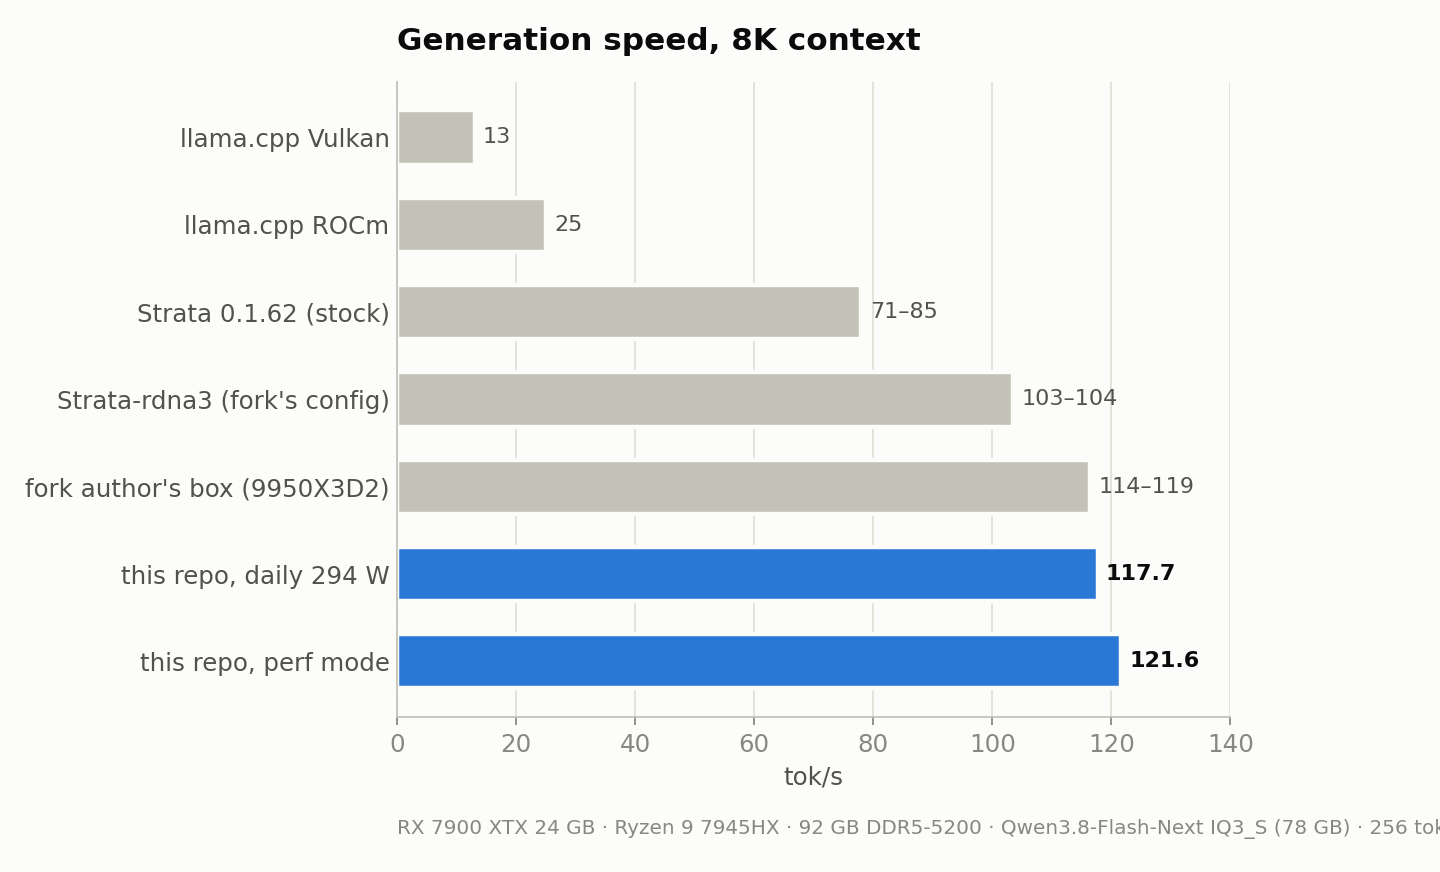
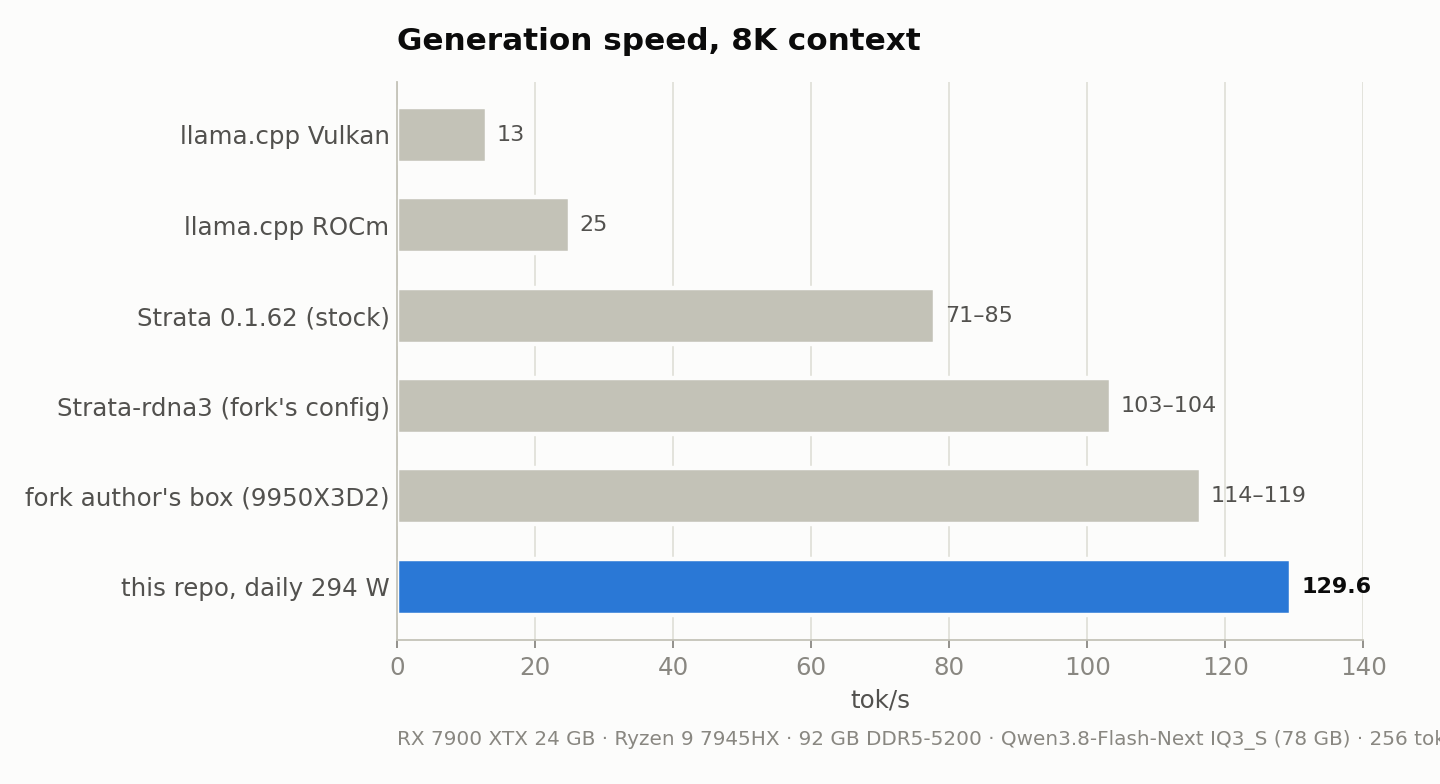
Bench 129.6/122.7 with the MTP head work (was 117.7/117.4); --spec 5 dropped (sweeps 45-46); charts updated

diff --git a/tools/plots.py b/tools/plots.py
@@ -50,10 +50,9 @@ def generation():
         ("Strata 0.1.62 (stock)", 78, False, "71–85"),
         ("Strata-rdna3 (fork's config)", 103.5, False, "103–104"),
         ("fork author's box (9950X3D2)", 116.5, False, "114–119"),
-        ("this repo, daily 294 W", 117.7, True, "117.7"),
-        ("this repo, perf mode", 121.6, True, "121.6"),
+        ("this repo, daily 294 W", 129.6, True, "129.6"),
     ], 140, "RX 7900 XTX 24 GB · Ryzen 9 7945HX · 92 GB DDR5-5200 · Qwen3.8-Flash-Next IQ3_S (78 GB) · "
-             "256 tokens, median of 5, greedy")
+             "256 tokens, greedy")
 
 
 def ladder():
@@ -61,8 +60,8 @@ def ladder():
         ("fork's shipped config", 103.5, False, "103.5"),
         ("+ tuning, FAST=1 (skip low-ranked missed experts)", 110, False, "110"),
         ("+ kernel patches (VRAM 1300)", 113.5, False, "113.5"),
-        ("+ VRAM 1400 (daily default)", 117.7, True, "117.7"),
-        ("+ core 3000 (perf mode, opt-in)", 121.6, True, "121.6"),
+        ("+ VRAM 1400", 117.7, False, "117.7"),
+        ("+ MTP draft-head work (q4_0, per-stream norm, retrained)", 129.6, True, "129.6"),
     ], 140, "Same box and model; each row includes the rows above it")
 
 

diff --git a/README.md b/README.md
@@ -1,6 +1,6 @@
 # rdna3-moe-tuning
 
-Run **Qwen3.8-Flash-Next (IQ3_S, 82 GB MoE)** on a **single RX 7900 XTX (24 GB)** at **~117 tok/s**,
+Run **Qwen3.8-Flash-Next (IQ3_S, 82 GB MoE)** on a **single RX 7900 XTX (24 GB)** at **~130 tok/s**,
 within a 294 W power cap. One script installs, tunes, serves and benchmarks
 [Strata-rdna3](https://github.com/nicejunjie/Strata-rdna3), a gfx1100-tuned fork of the Strata engine.
 
@@ -11,7 +11,7 @@ the rest on the CPU in parallel, and drafts 4 tokens ahead with an MTP head.
 
 | | daily (`serve`) | perf mode (`perf`, opt-in) |
 |---|---:|---:|
-| generation, 8K / 32K context | 117.7 / 117.4 tok/s | 121.6 / 122.5 tok/s |
+| generation, 8K / 32K context | 129.6 / 122.7 tok/s | 121.6 / 122.5 tok/s (measured before the MTP work; not re-run) |
 | clocks | core 2300, VRAM 1400 | core 3000, VRAM 1400 |
 | power | 294 W cap, ~230 W used | 294 W cap, ~287 W used (coil whine) |
 
@@ -56,7 +56,8 @@ Single user, distinct prompts, 256 generated tokens, median of 5 runs, greedy.
 
 | | prompt 8K | prompt 32K | generation 8K / 32K |
 |---|---:|---:|---:|
-| **this repo, `FAST=1` + kernel patches, VRAM 1400 (default)** | **2,903** | **3,605** | **117.7 / 117.4** |
+| **this repo, + MTP draft-head work (q4_0, per-stream norm, retrained; default)** | **2,870** | **3,593** | **129.6 / 122.7** |
+| this repo, `FAST=1` + kernel patches, VRAM 1400 | 2,903 | 3,605 | 117.7 / 117.4 |
 | this repo, `FAST=1` + kernel patches, VRAM 1300 | 2,860 | 3,556 | 113–114 / 114 |
 | this repo, `FAST=1`, before the kernel patches | 2,860 | 3,555 | 109–111 / 109 |
 | this repo, `FAST=0` (exact answers) | 2,840 | 3,553 | 101 / 103 |
@@ -194,6 +195,7 @@ would need more power. Raw output: [`snapshot/2026-11-22/sweep19.txt`](snapshot/
 | `--mtp-hnorm stream` (the draft layer's hidden-input RMS per hyper-connection stream, as llama.cpp's qwen4exp MTP graph, not one RMS over all four; 2026-11-23, `snapshot/2026-11-23/sweep42.txt`, `sweep43.txt`) | varied chats 131.2 → 136.9 (+4.3%, 4 rounds, 136.1–137.1 each) | **yes** (`HNORM=0` = pooled) |
 | English-only draft vocabulary (`--mtp-draft-vocab data/draft_vocab_en.bin`) / the full vocabulary (`STRATA_MTP_FULL_HEAD=1`) | +2.6% alone, +0.2% on top of hnorm / −3.9% | no (non-English drafts would lose) / no |
 | MTP draft layer retrained on this model's greedy answers (`tools/mtp_train.py`, 1,500 prompts, 2,000 steps; `logs/sweep44.txt`; 2026-11-23) | held-out draft top-1 75.5 → 81.9% (step 1); varied chats 136.3 → 137.2 (+0.7%, 136.1/136.7/136.2 vs 137.1/137.1/137.5) | **yes** (`MTP=ft`, default once built) |
+| `--spec 5` / `--spec-min-p 0.4` with the retrained head (`logs/sweep45.txt`, `sweep46.txt`; 2026-11-23) | varied chats 136.8 → 137.3 / 136.8 (3 rounds); bench 8K 129.6 → 121.0, 32K 122.7 → 119.5 (2 rounds each) | no |
 | `STRATA_HC_REQ8=1` | 114 / 107, prompts −5% | no |
 | `STRATA_COPY_HIP_PRIO=1`, `--host-core sibling` | −3% / none | no |
 | higher core clock (no SCLK cap) | ~+1 tok/s, coil whine | no |

diff --git a/docs/kernel-work-notes.md b/docs/kernel-work-notes.md
@@ -275,3 +275,6 @@ First step: per-kernel timing (rocprofv3 --kernel-trace on a short bench) to see
   Next: spec-min-p / spec with the ft head (sweep45).
 - Box ssh: a remote command whose text contains "strata"/"chatbench" or a pkill pattern gets killed by
   strata-rdna3.sh stop/serve or pkill -f (exit 255). Launch via setsid nohup bash <script>; bracket patterns in pgrep.
+- 2026-11-23 sweep45/46 (retrained head): --spec 5 wins varied chats 136.8 -> 137.3 (3/3 rounds) but loses the bench
+  (8K 129.6 -> 121.0, 32K 122.7 -> 119.5): dropped. --spec-min-p 0.4 = base. Bench now 129.6 / 122.7 (8K / 32K) with
+  q4_0 + hnorm stream + ft head, vs 117.7 / 117.4 before the MTP work (+10% / +4.5%). Perf mode not re-run.
